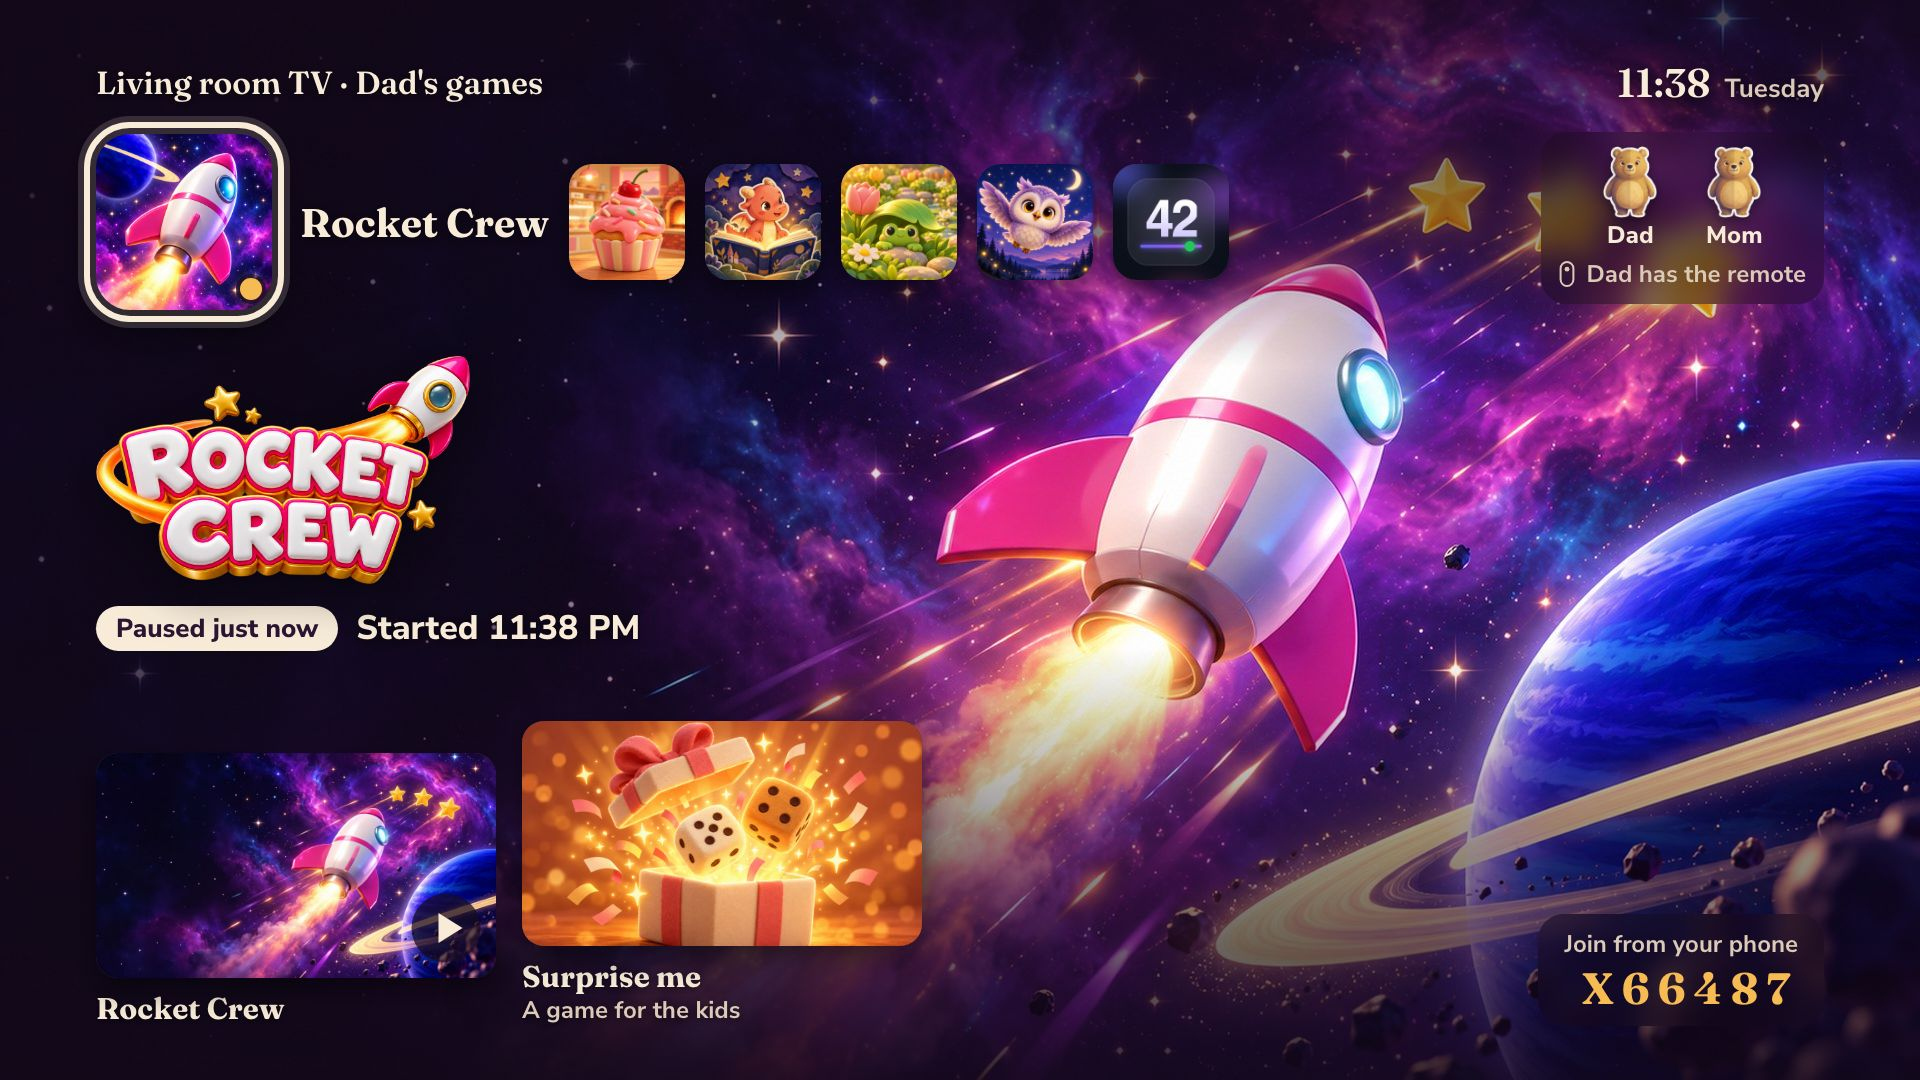
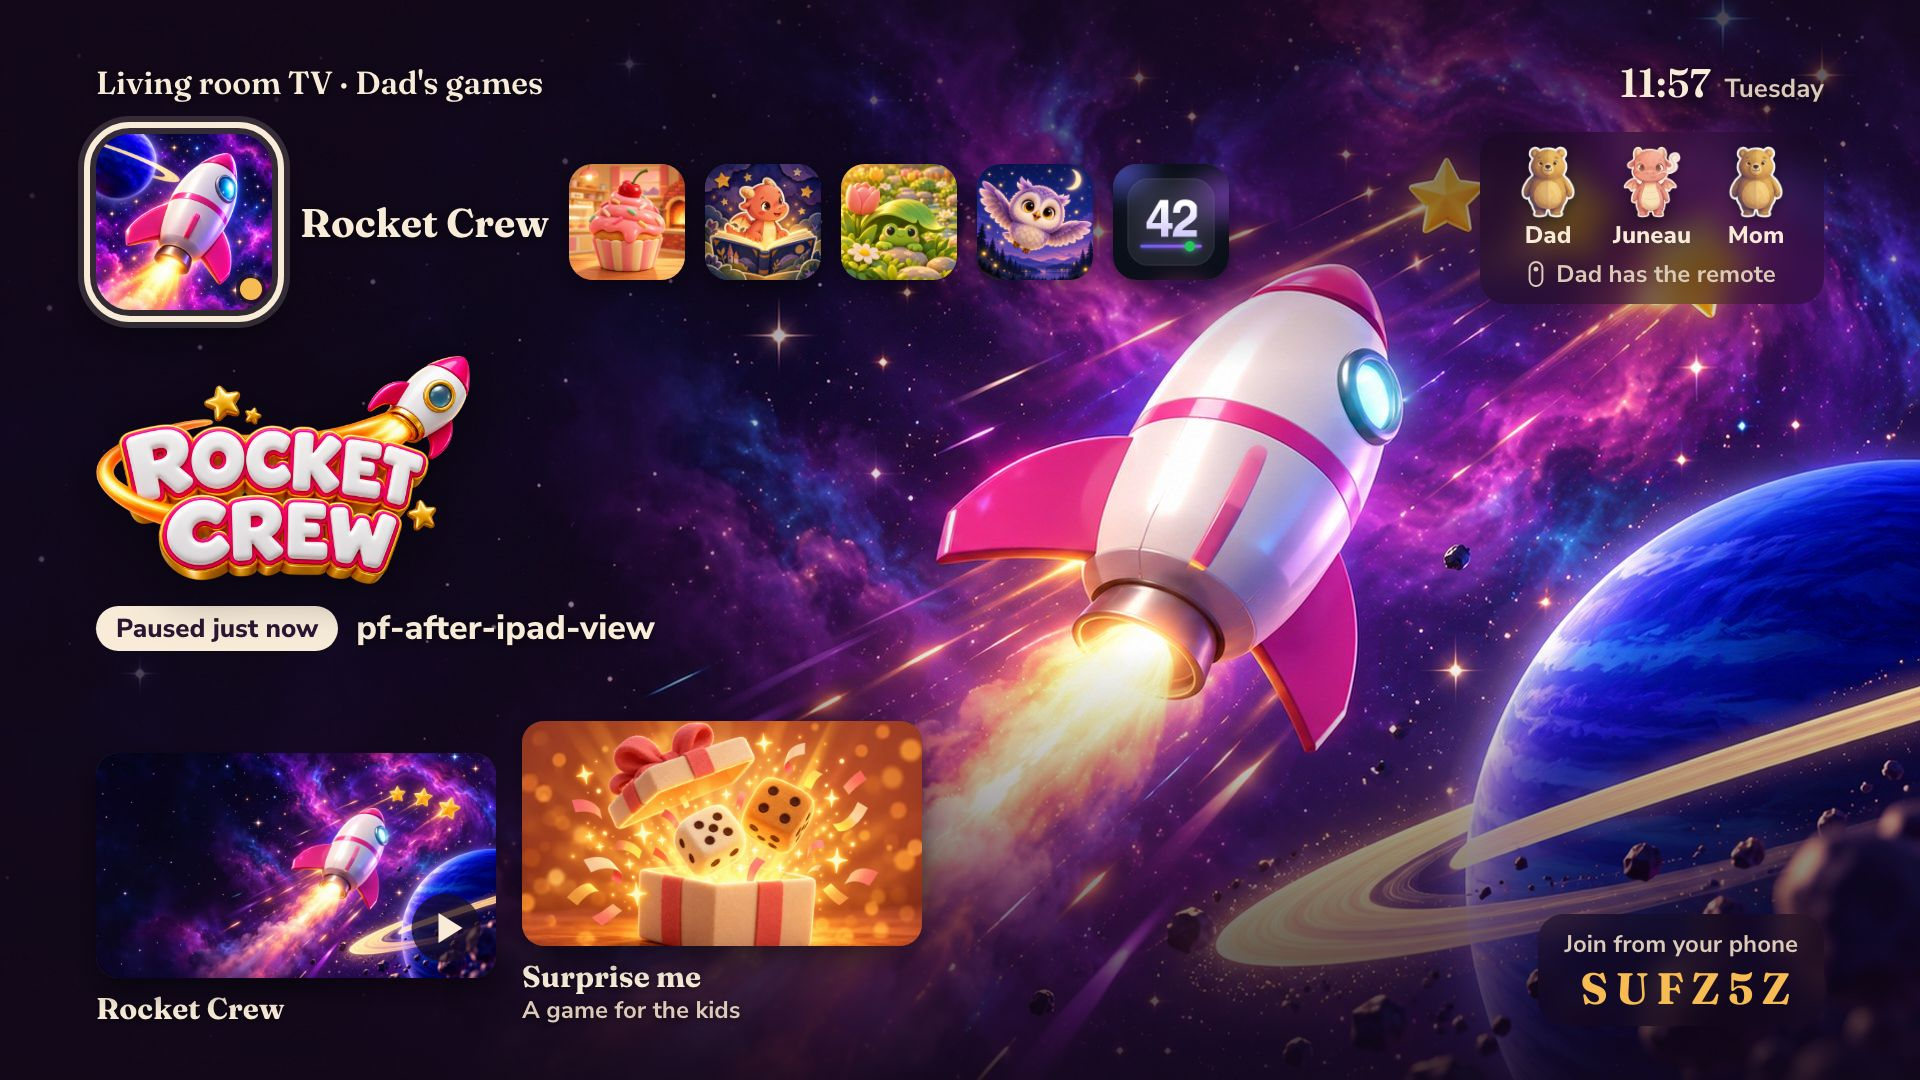
e2e: phones-follow - Juneau's iPad follows into the same Rocket Crew room
e2e/phones-follow.mjs adds Juneau's iPad: a tablet profile that joins with the TV code (a scripted
couch client plus Rocket Crew's phone page in its own fake OGS WebView), with no roster sent. It
checks that the iPad follows as a player and waits for the room, follows into the TV's room R, and
lands on /join/R as Rocket Crew's Lookout (by OGS id) while Mom stays the Fixer. A follower's
game.view from the iPad leaves the TV on the host's page. Home sends the iPad to the remote,
Continue brings it back into R, and Home sends it home again. Each scripted device now gets its own
browser context, because Rocket Crew keeps a seat in a per-room cookie (a shared context put the
iPad into Dad's seat).

Evidence: 22/23 passed (results.json + TV screenshots). Every behaviour check passed and Detox
(Mom's phone) passed. Only "synced video saved" failed: the simulator wrote no Mom-phone recording
after earlier aborted runs (a stale host recording). phones-follow.mp4 is still the previous run's
video (phones only, no iPad).

diff --git a/docs/testing/e2e.md b/docs/testing/e2e.md
@@ -38,7 +38,7 @@ and a laptop page; every other request is aborted and must stay empty (`rx.block
 | Switching TVs, seam (no simulator): the cast flow + sync against two fake Chromecasts with Cast's real end timing | `cd apps/mobile && pnpm exec jest services/__tests__/cast-switch.seam.test.ts` (part of `pnpm test`) | nothing |
 | Couch flow across devices | `cd e2e && node couch-flow.mjs` | API (8788), launcher (5180), fake Chromecast (5181), fixture game (5190) |
 | Several households, one room (multiCouch): three couches, three recorded launchers, Night Flight; the Mumm phone in the simulator under Detox taps Invite; a Smith card moves every TV; Home/Continue on one TV; synced 2×2 video | `cd e2e && node multi-couch.mjs` (`MUMM_PHONE=scripted` without the simulator) | below |
-| Every couch phone follows the TV (Rocket Crew, real room): Dad's scripted phone starts it, Mom's phone (iOS app, Detox) joins with the TV code, waits while the TV hasn't named the room, follows into `/join/<R>` (Rocket Crew's room then has Captain Dad + Fixer Mom by OGS id), steps out without parking the TV, follows Home + Continue back into the same seat, Home returns it to the remote; synced phone+TV video | `cd e2e && node phones-follow.mjs` | below |
+| Every couch phone follows the TV (Rocket Crew, real room): Dad's scripted phone starts it, Mom's phone (iOS app, Detox) joins with the TV code, waits while the TV hasn't named the room, follows into `/join/<R>` (Rocket Crew's room then has Captain Dad + Fixer Mom by OGS id), steps out without parking the TV, follows Home + Continue back into the same seat, Home returns it to the remote; Juneau's iPad (scripted tablet couch client + fake WebView page, no roster) follows into the same room as the Lookout, its page's `game.view` leaves the TV page, Home/Continue/Home move it too; synced phone+TV video | `cd e2e && node phones-follow.mjs` | below |
 | 4. API stream routes against a mock renderer, Realtime and TURN (start, publisher answer forwarding, subscribe/answer, heartbeat 410/502, ice-servers fallback, readiness, error contract) | `cd services/api && pnpm exec vitest run test/stream-sfu.test.ts test/stream-routes.test.ts test/stream-ready.test.ts test/stream-ready-check.test.ts` (part of `pnpm test`) | nothing (fetch stubbed) |
 | 5. Post-deploy stream readiness | `pnpm --filter @open-game-system/api stream:ready <apiBase>` (below) | network, `gcloud` (optional) |
 | API integration (workerd) | `pnpm --filter @open-game-system/api test:integration` | emulators started by its global setup |
